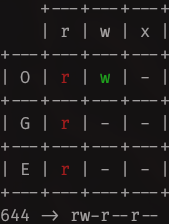
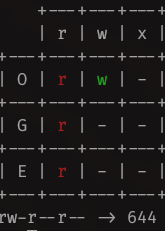
Changed example in README to demonstrate symbolic notation option

diff --git a/README.md b/README.md
@@ -44,7 +44,7 @@ $ chmodhelp 755
 
 
 ```
-$ chmodhelp 644
+$ chmodhelp rw-r--r--
 ```
 ![](/images/example2.png)
 
